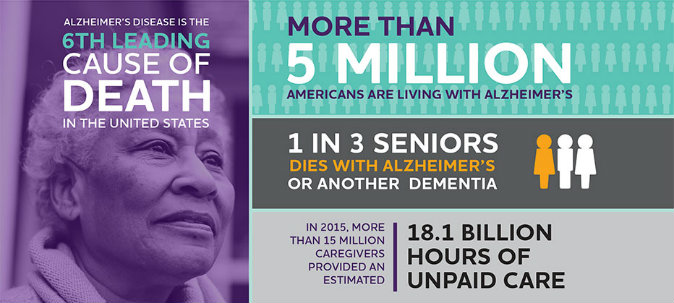
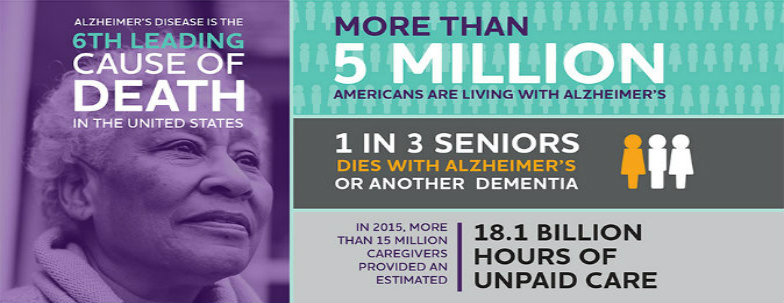
Changed pictures, added text, added podcast
I changed the dimension of my picture and added the link to the podcast
and information about the interview

diff --git a/index.html b/index.html
@@ -122,7 +122,7 @@
 											<header>
 												<h2><a href="#">Your loved one can forget you.</a></h2>
 											</header>
-											<img src="images/pic04.jpg" alt="" />
+											<img style="width: 100%;" src="images/pic04.jpg" alt="" />
 											<h3> This is the first post in a series of posts related to different demtnia related topics. </h3>
 											<p> The day she stopped saying my name is the day I knew she forgot me. As a college student, I have only had a general idea on the subject of dementia. I did not know any signs or symptoms of the brain killing disease. The knowledge of symptoms would have been helpful to me a few years ago...	 </p>
 											<ul class="actions">
@@ -182,27 +182,14 @@ We have all needed our parents. Our parents take care of us even after we can ta
 													<!-- Excerpt -->
 														<article class="box excerpt">
 															<header>
-																<span class="date">July 24</span>
-																<h3><a href="#">One more post</a></h3>
+
+																<h3><a href="https://medium.com/@let2933/the-end-c16b21e165#.2ftl48tvf">The End </a></h3>
 															</header>
-															<p>Lorem ipsum dolor odio facilisis convallis. Etiam non nunc vel est
-															suscipit convallis non id orci lorem ipsum sed magna consequat feugiat lorem dolore.</p>
+															<p>Everyone’s story has a beginning and an end. How well your ending goes depends on the steps you take throughout your story. You and your loved one should prepare for the end immediately once the doctor diagnoses them with dementia. Most people would rather not think about their story’s end, but you and your loved one can have a much smoother transition when their dementia progresses if you are prepared. Your loved one needs to decide what they want later in life...</p>
 														</article>
 
 												</li>
-												<li>
 
-													<!-- Excerpt -->
-														<article class="box excerpt">
-															<header>
-																<span class="date">July 25</span>
-																<h3><a href="#">One more post</a></h3>
-															</header>
-															<p>Lorem ipsum dolor odio facilisis convallis. Etiam non nunc vel est
-															suscipit convallis non id orci lorem ipsum sed magna consequat feugiat lorem dolore.</p>
-														</article>
-
-												</li>
 											</ul>
 										</section>
 
@@ -214,15 +201,12 @@ We have all needed our parents. Our parents take care of us even after we can ta
 													<!-- Highlight -->
 														<article id="podcast" class="box highlight">
 															<header>
-																<h3><a href="#">Podcast</a></h3>
+																<h3>Podcast</h3>
 															</header>
 															<a href="#" class="image left"><img src="images/pic06.jpg" alt="" /></a>
-															<p>Phasellus  sed laoreet massa id justo mattis pharetra. Fusce suscipit ligula vel quam
-															viverra sit amet mollis tortor congue magna lorem ipsum dolor et quisque ut odio facilisis
-															convallis. Etiam non nunc vel est suscipit convallis non id orci. Ut interdum tempus
-															facilisis convallis. Etiam non nunc vel est suscipit convallis non id orci.</p>
+															<p>A very good resource I have been using to help my journey with learning about dementia is the Alzheimer's Association. I was able to interview Dr. Karen Roberto, a professor at Virginia Tech, who is also a part of the Alzheimer's Association. Dr. Roberto was able to tell me more about what the Alzheimer's association does to help raise awareness for dementia, as well as answer some very important questions about dementia.</p>
 															<ul class="actions">
-																<li><a href="#" class="button icon fa-file">Learn More</a></li>
+																<li><a href="https://soundcloud.com/user-881944920/dementia-podcast-1" class="button icon fa-file">Click to Listen</a></li>
 															</ul>
 														</article>
 
@@ -232,15 +216,11 @@ We have all needed our parents. Our parents take care of us even after we can ta
 													<!-- Highlight -->
 														<article class="box highlight">
 															<header>
-																<h3><a href="#">Something of less note</a></h3>
+																<h3>Dedication</h3>
 															</header>
 															<a href="#" class="image left"><img src="images/pic07.jpg" alt="" /></a>
-															<p>Phasellus  sed laoreet massa id justo mattis pharetra. Fusce suscipit ligula vel quam
-															viverra sit amet mollis tortor congue magna lorem ipsum dolor et quisque ut odio facilisis
-															convallis. Etiam non nunc vel est suscipit convallis non id orci. Ut interdum tempus
-															facilisis convallis. Etiam non nunc vel est suscipit convallis non id orci.</p>
+															<p>I have devoted this website to learning about dementia, but the real inspiration behind my passion is my great-grandmother. She was a hard-working, passionate, and caring woman. She worked for everything she had, and wouldn't hesitate to help anyone in need. She ended up having dementia, which is why I have dedicated this webstite to her. I want to make sure people know the truth about dementia, especially if they end up becoming diagnosed like my great-grandmother. Dementia is by no means an easy topic to discuss, but everyone needs to know the truth.</p>
 															<ul class="actions">
-																<li><a href="#" class="button icon fa-file">Learn More</a></li>
 															</ul>
 														</article>
 
